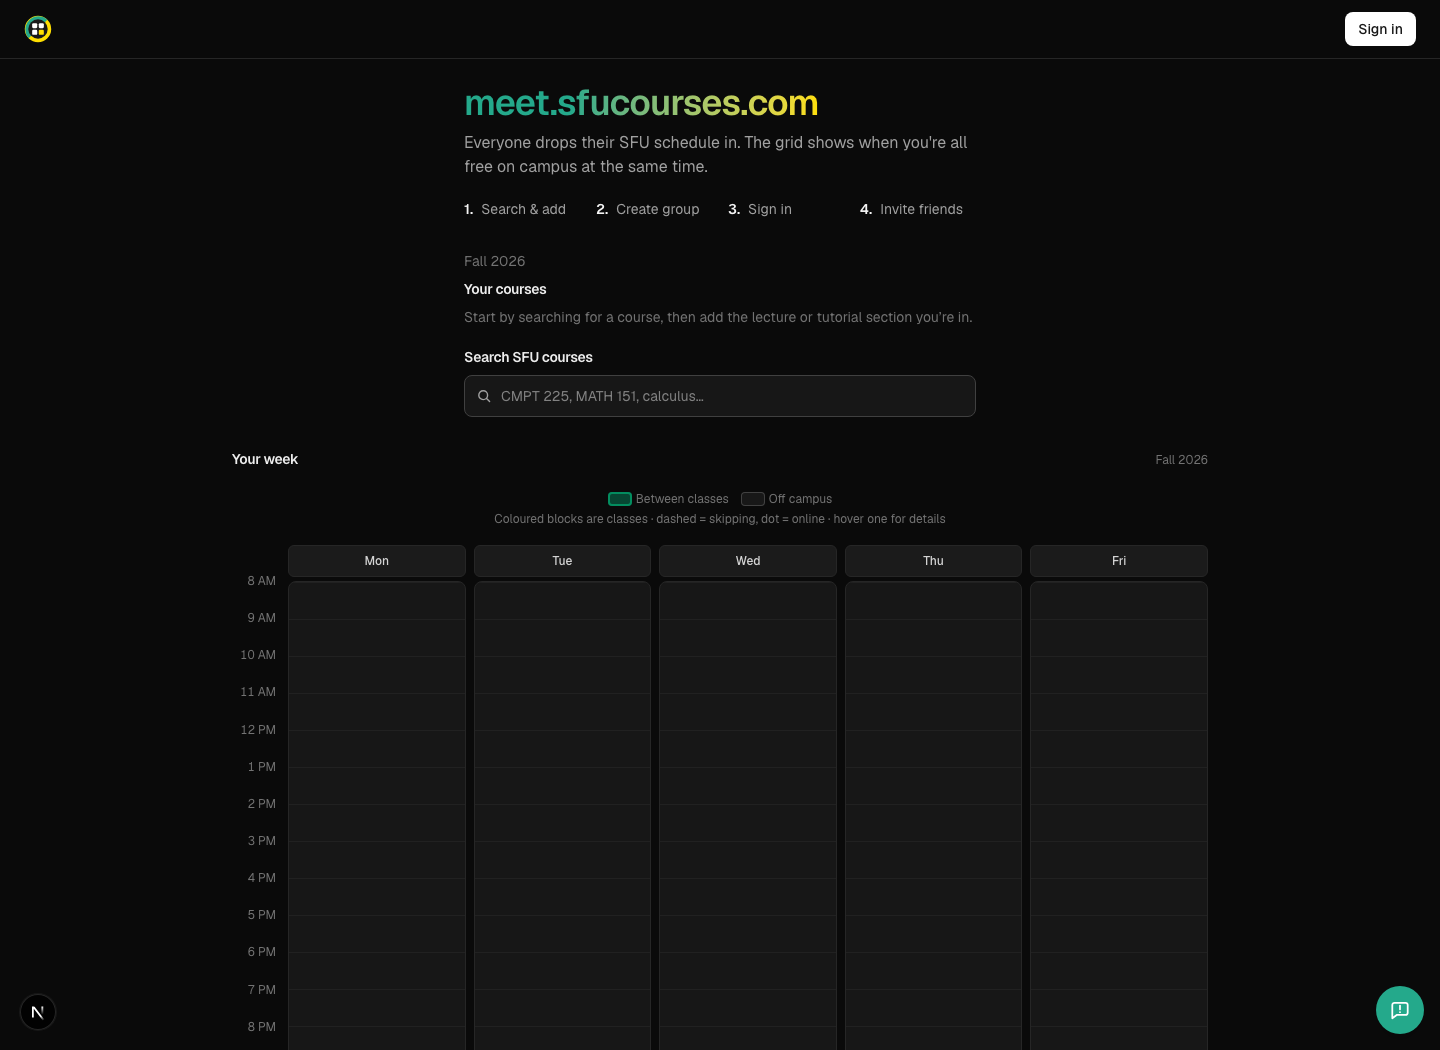
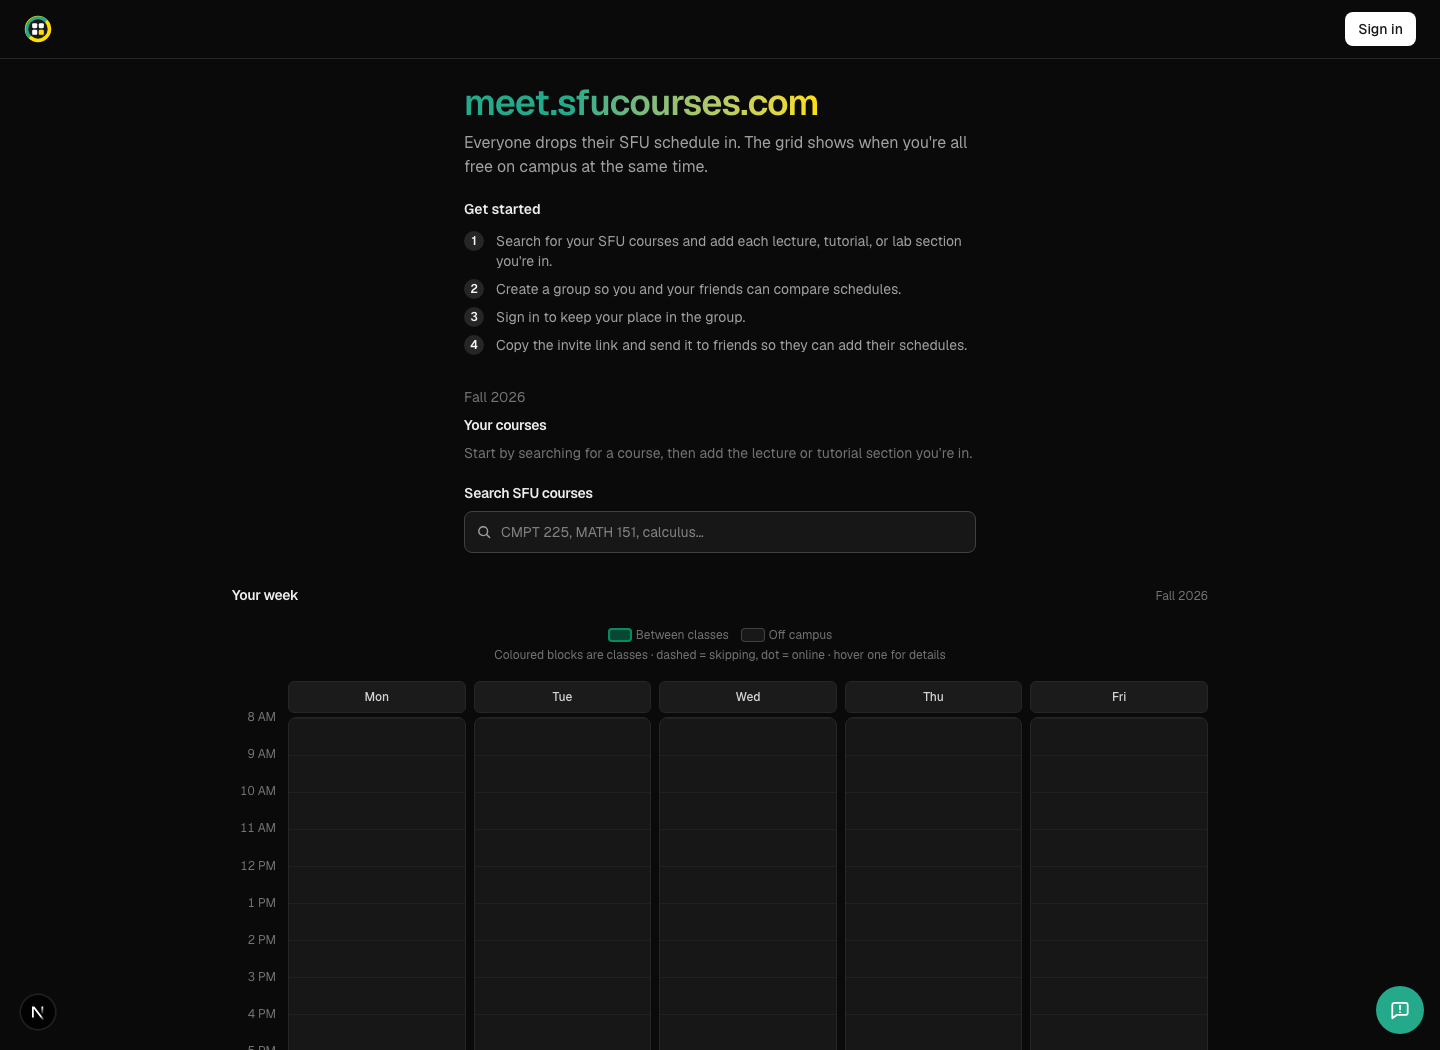
feat(onboarding): spell out each step vertically

diff --git a/components/LandingHome.tsx b/components/LandingHome.tsx
@@ -43,15 +43,18 @@ export function LandingHome() {
           Everyone drops their SFU schedule in. The grid shows when you&apos;re all free
           on campus at the same time.
         </p>
-        <ol className="mt-5 grid grid-cols-2 gap-x-4 gap-y-2 text-sm sm:grid-cols-4" aria-label="How it works">
+        <h2 className="mt-5 text-sm font-semibold">Get started</h2>
+        <ol className="mt-3 flex flex-col gap-2 text-sm">
           {[
-            "Search & add",
-            "Create group",
-            "Sign in",
-            "Invite friends",
+            "Search for your SFU courses and add each lecture, tutorial, or lab section you're in.",
+            "Create a group so you and your friends can compare schedules.",
+            "Sign in to keep your place in the group.",
+            "Copy the invite link and send it to friends so they can add their schedules.",
           ].map((step, index) => (
-            <li key={step} className="flex items-start gap-2 text-neutral-500 dark:text-neutral-400">
-              <span className="font-semibold text-neutral-900 dark:text-neutral-100">{index + 1}.</span>
+            <li key={step} className="flex items-start gap-3 text-neutral-600 dark:text-neutral-400">
+              <span className="flex h-5 w-5 shrink-0 items-center justify-center rounded-full bg-neutral-200 text-xs font-semibold text-neutral-900 dark:bg-neutral-800 dark:text-neutral-100">
+                {index + 1}
+              </span>
               <span>{step}</span>
             </li>
           ))}
